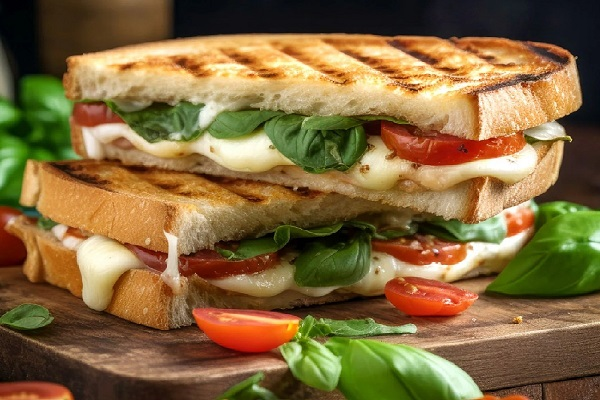
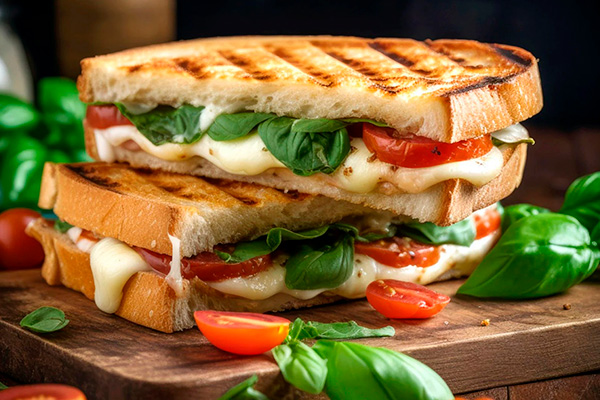
style: imagenes reestilizadas para una mejor coherencia visual, modularizacion de validacion de login con mejoras de UX/UI

diff --git a/src/routes/usersRoutes.js b/src/routes/usersRoutes.js
@@ -2,12 +2,13 @@ const express = require("express");
 const router = express.Router();
 const usersController = require("../controllers/usersController");
 //middlewares
-const auth = require('../middleware/auth')
-const validations = require('../middleware/validations')
+const auth = require('../middleware/auth');
+const validations = require('../middleware/validations');
+const areEmailAndPassInDB = require('../middleware/areEmailAndPassInDB');
 const fileUploadUsers = require('../services/fileUploadUsers');
 
 router.get("/login", auth.profileAuth, usersController.loginPage);
-router.post("/login", auth.userInctiveAuth, validations.login, usersController.loginSuccesful);
+router.post("/login", auth.userInctiveAuth, validations.login, areEmailAndPassInDB,usersController.loginSuccesful);
 router.get("/register", auth.userInctiveAuth, usersController.registerPage);
 router.post("/register", fileUploadUsers.single('image'), validations.register, usersController.processRegister);
 router.get("/profile", auth.userActiveAuth, usersController.profilePage);

diff --git a/src/middleware/areEmailAndPassInDB.js b/src/middleware/areEmailAndPassInDB.js
@@ -1,0 +1,19 @@
+const db = require('../database/models');
+
+function areEmailAndPassInDB(req, res, next) {
+    const { email, password } = req.body;
+
+    db.User.findOne({
+        where: { email: email },
+    }).then((user) => {
+        if (!user) {
+            res.render("users/log-in", { dbErrorEmail: '* Email no se encuentra registrado' });
+        } else if (password != user.password) {
+            res.render("users/log-in", { dbErrorPassword: '* La contraseña es incorrecta' });
+        } else {
+            next();
+        }
+    });
+}
+
+module.exports = areEmailAndPassInDB;

diff --git a/src/controllers/usersController.js b/src/controllers/usersController.js
@@ -30,10 +30,6 @@ const usersController = {
         res.redirect("/home");
       } else if (!errors.isEmpty()) {
           res.render("users/log-in", { errors: errors.mapped() });
-      } else if (!user) { // Si el usuario o la contraseña no coinciden
-          res.render("users/log-in", { dbErrorEmail : '* Email no se encuentra registrado'});
-      } else if (bcrypt.compare(password, user.password)){
-          res.render("users/log-in", { dbErrorPassword : '* La contraseña es incorrecta' });
       }
     });
   },

diff --git a/public/js/login-validations.js b/public/js/login-validations.js
@@ -25,8 +25,10 @@ loginFormValidation
 
 document.getElementById('email').addEventListener('blur', ()=>{
   loginFormValidation.revalidateField('#email');
+  document.getElementById('dbErrorPassword').classList.add('hidden');
 });
 
 document.getElementById('password').addEventListener('blur', ()=>{
   loginFormValidation.revalidateField('#password');
+  document.getElementById('dbErrorEmail').classList.add('hidden');
 });

diff --git a/public/css/log-in-styles.css b/public/css/log-in-styles.css
@@ -158,8 +158,8 @@ h2 {
     color: red !important;
 }
 
-.error {
-    
+.hidden {
+    display: none !important;
 }
 
 /*UN MEDIAQUERI SOLO PORQUE ME DA TOC EN UN PARTE XD*/
